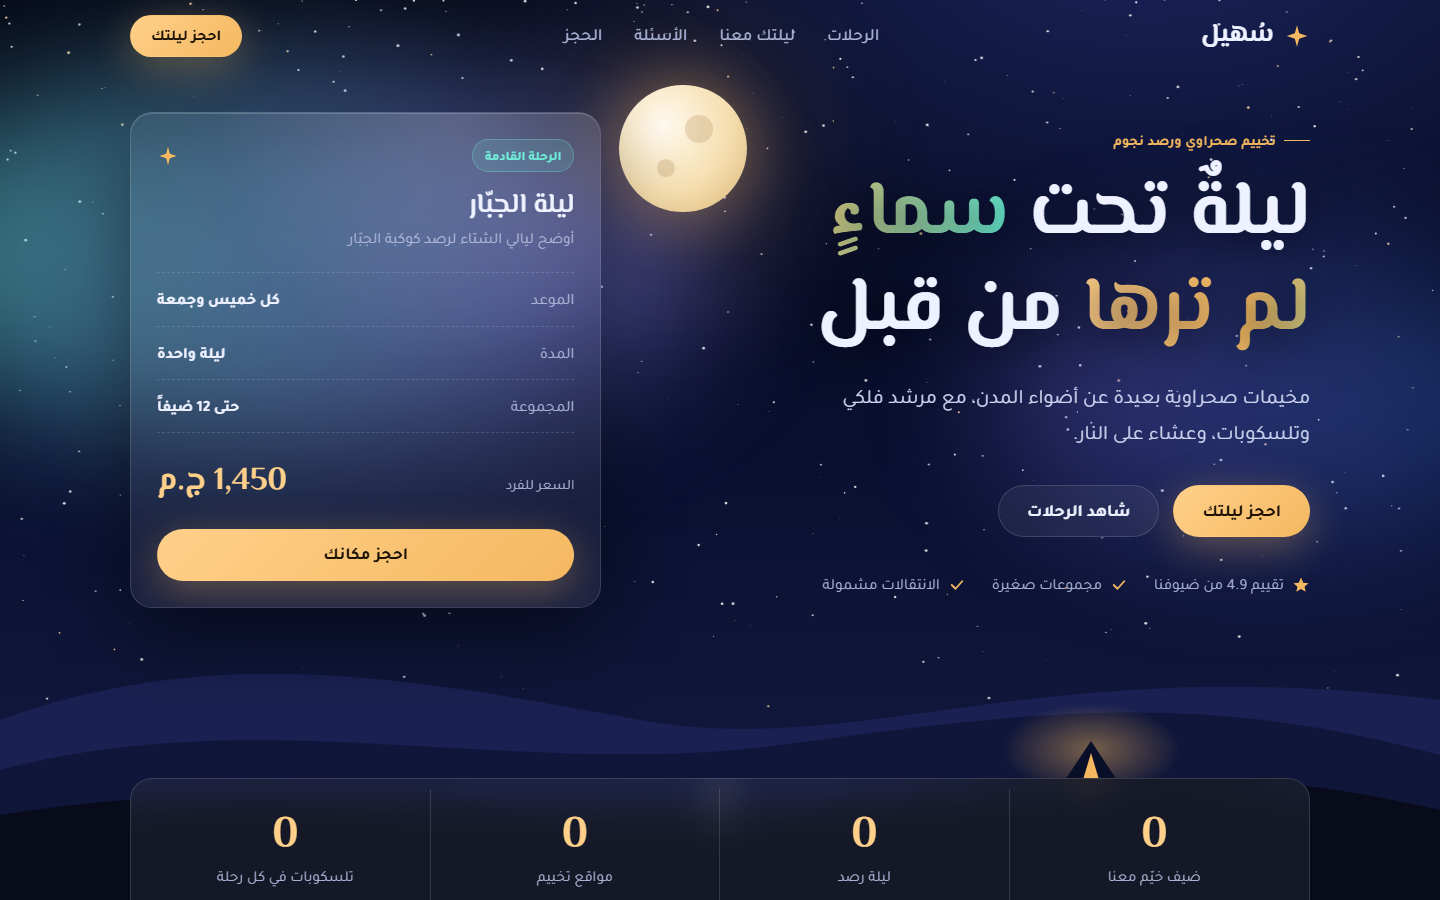
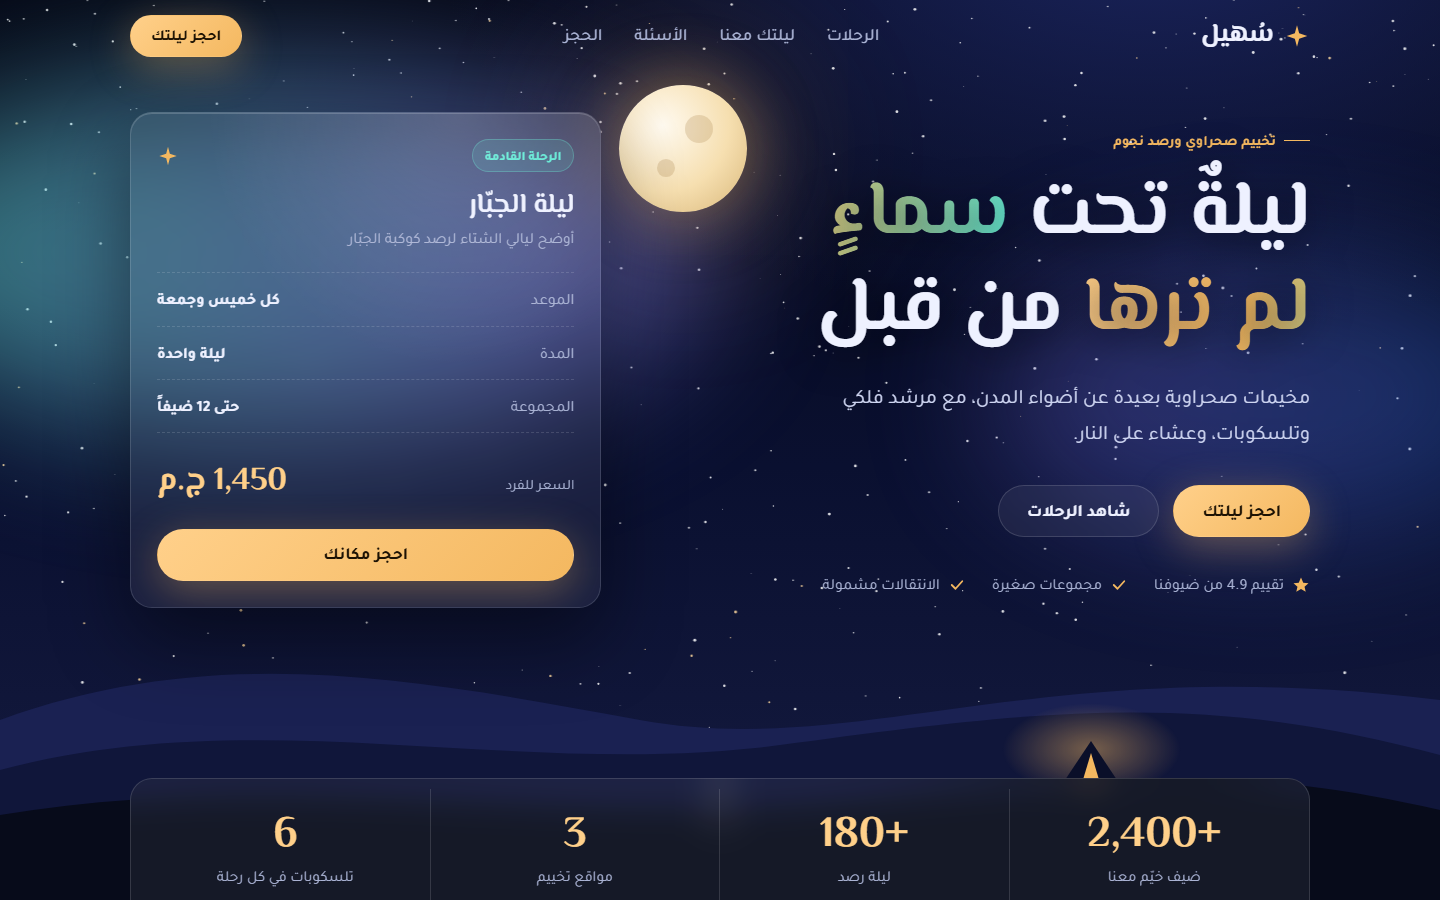
Show final counter values with reduced motion; refresh preview

diff --git a/suhail/index.html b/suhail/index.html
@@ -694,6 +694,8 @@ svg { display: block; flex-shrink: 0; }
 
   /* ---------- الظهور عند التمرير ---------- */
   var reveals = $$('.reveal'), counters = $$('.stat__num');
+  /* مع تقليل الحركة تظهر الأرقام النهائية مباشرة */
+  if (reduce) counters.forEach(function (el) { el.textContent = fmt(+el.dataset.target) + (el.dataset.suffix || ''); });
   if ('IntersectionObserver' in window) {
     var io = new IntersectionObserver(function (entries) {
       entries.forEach(function (en) { if (en.isIntersecting) { en.target.classList.add('is-visible'); io.unobserve(en.target); } });
